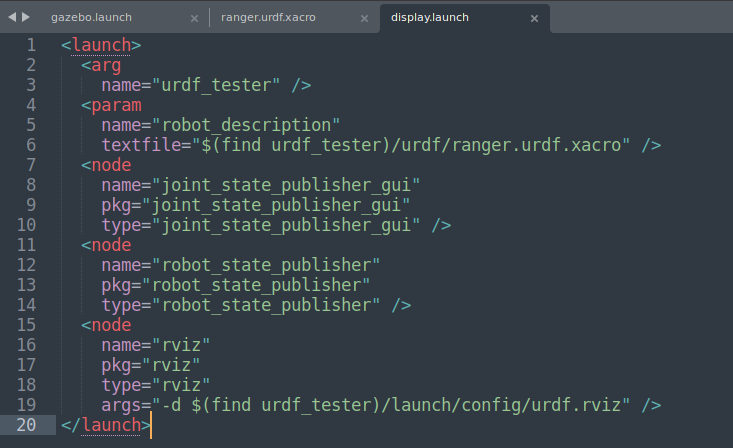
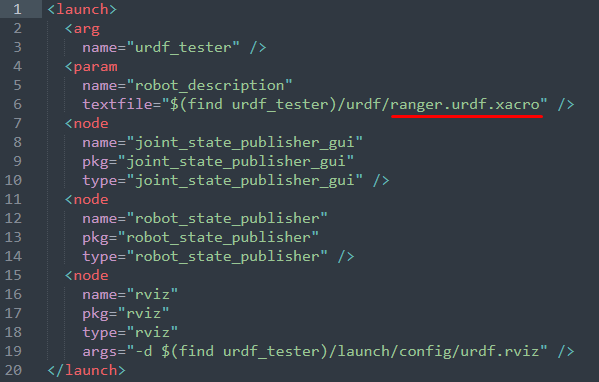
Readme

Changed region(s): [[0.0, 0.0, 1.0, 0.9791], [0.9316, 0.2592, 0.9616, 0.288], [0.4207, 0.1152, 0.4508, 0.144]]

diff --git a/README.md b/README.md
@@ -1,0 +1,33 @@
+# URDF Tester
+
+Small repository to test urdf files generated by the urdf exporter tool of SolidWorks.
+
+## Instructions
+Clone this repo:
+```
+git clone git@github.com:mefisto2017/URDF-Exporter-Tester.git
+```
+<br />
+
+Replace "config", "meshes" and "urdf" folders by the ones generated in Solidworks
+
+<br />
+Rename the urdf file in the folder urdf as <name>.urdf.xacro
+
+Edit the urdf file as:
+Change the name of your robot in line 6 to <name>
+Change every filename="" line to include the urdf_tester
+
+![This is an image](images/urdf.png)
+
+Edit the display file in the launch folder
+Change line 6 to <name>.urdf.xacro
+
+![This is an image](images/display_launch.png)
+
+
+Edit the gazebo file in the launch folder
+Change line 6 to -model <name>
+
+![This is an image](images/gazebo_launch.png)
+
